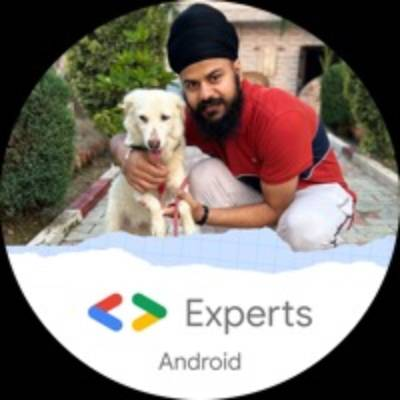
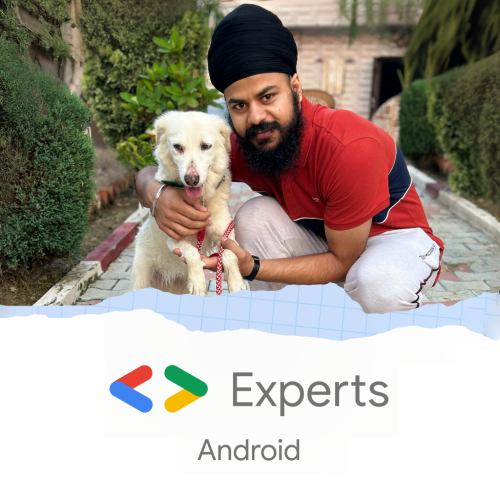
nav image resize and made some edits on speaker & team card

diff --git a/src/app/speakers/[slug]/page.js b/src/app/speakers/[slug]/page.js
@@ -22,13 +22,13 @@ const SpeakerDetails = ({ params }) => {
 
         <div className="w-full h-full lg:w-2/5 flex lg:sticky lg:top-1/4">
           {speaker &&
-            <div className="w-full flex flex-col text-left justify-center gap-1">
+            <div className="w-full flex flex-col text-left justify-center gap-1 ">
               <Image
                 src={speaker.image}
                 alt={speaker.name}
                 width={350}
                 height={550}
-                className="rounded-2xl shadow-2xl hover:shadow-2xl transition duration-500 object-cover overflow-hidden w-full"
+                className="rounded-2xl transition duration-500 shadow-xl hover:shadow-2xl object-cover overflow-hidden w-full"
               />
               <h1
                 className="text-[min(9vw,50px)] leading-[1.3] tracking-tighter pt-10 font-semibold text-transparent bg-clip-text bg-gradient-to-b from-black to-gray-700 mb-1">{speaker.name}</h1>

diff --git a/src/components/elements/SpeakerCard.js b/src/components/elements/SpeakerCard.js
@@ -14,13 +14,14 @@ const SpeakerCard = ({ speaker, year }) => {
 
       <div className="flex flex-col">
 
-        <div className="relative aspect-square overflow-hidden rounded-2xl"> {/* Fixed aspect ratio container */}
+        <div
+          className="relative aspect-square overflow-hidden rounded-2xl shadow-md hover:shadow-xl transition"> {/* Fixed aspect ratio container */}
           <Image
             src={speaker.image}
             alt={`${speaker.name}'s avatar`}
             height={400}
             width={400}
-            className="rounded-2xl aspect-square object-cover w-fit shadow-lg group-hover:shadow-xl group-hover:scale-105 transition"
+            className="rounded-2xl aspect-square object-cover w-fit group-hover:scale-105 transition"
           />
         </div>
 

diff --git a/src/components/elements/TeamMemberCard.js b/src/components/elements/TeamMemberCard.js
@@ -11,7 +11,8 @@ const TeamMemberCard = ({ member }) => {
 
       <div className="flex flex-col">
 
-        <div className="relative aspect-square overflow-hidden rounded-2xl"> {/* Fixed aspect ratio container */}
+        <div
+          className="relative aspect-square overflow-hidden rounded-2xl shadow-lg hover:shadow-xl transition"> {/* Fixed aspect ratio container */}
           <Image
             src={member.image}
             alt={`${member.name}'s avatar`}

diff --git a/src/components/elements/PillButton.js b/src/components/elements/PillButton.js
@@ -23,7 +23,7 @@ const Button = ({
       onClick={onClick}
       aria-label={aria_label}
       className={clsx(
-        'px-6 py-2.5 text-base font-medium shadow-sm w-fit rounded-full',
+        'px-6 py-2.5 text-base font-medium shadow-md w-fit rounded-full',
         action === 'primary' &&
         'bg-black text-white hover:bg-black/80 focus-visible:ring-2 focus-visible:ring-offset-2 focus-visible:ring-black',
         action === 'secondary' &&
